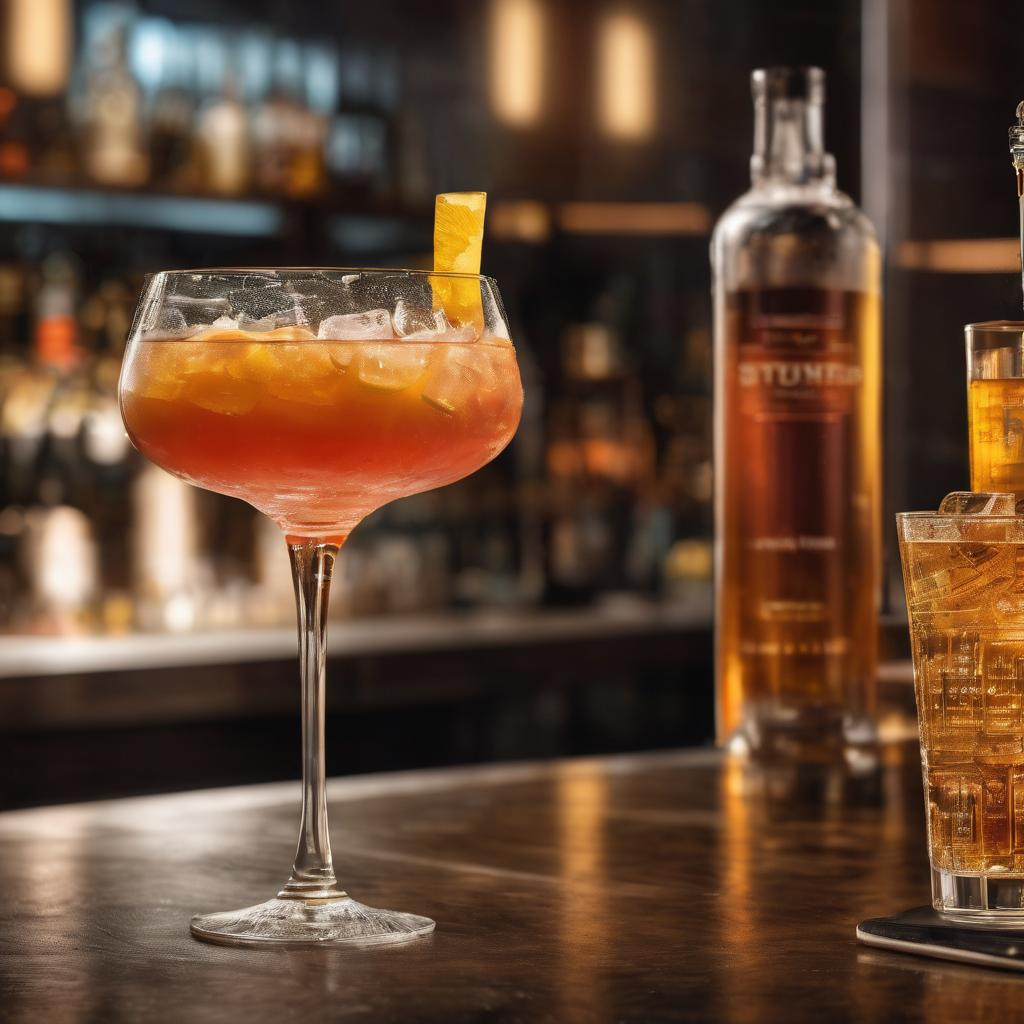
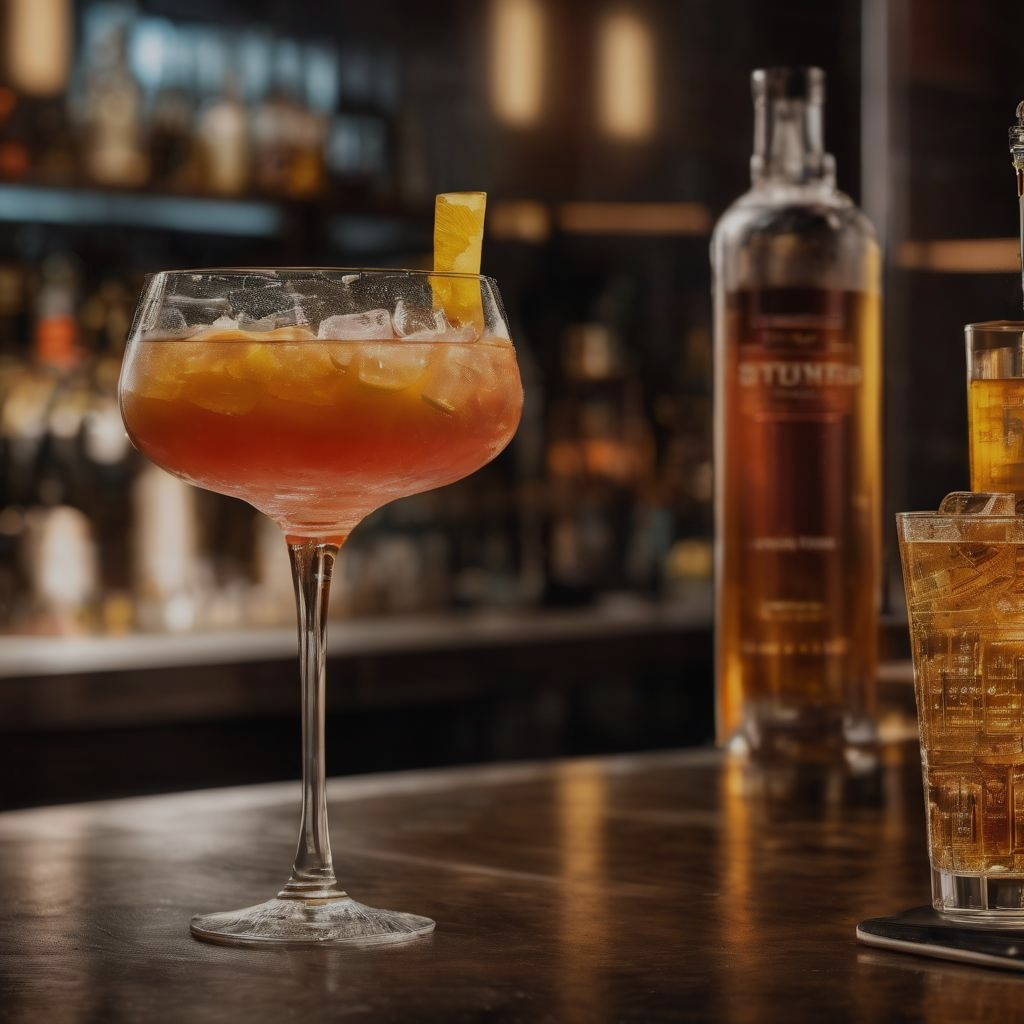
feat: darkened images, updated html text, fixed nav bar, added css

diff --git a/index.html b/index.html
@@ -21,7 +21,7 @@
 
     <nav class="navbar navbar-expand-lg bg-body-tertiary">
       <div class="container-fluid">
-        <a class="navbar-brand" href="#">FrontEnders</a>
+        <a class="navbar-brand" href="#">The Front End</a>
         <button class="navbar-toggler" type="button" data-bs-toggle="collapse" data-bs-target="#navbarNav" aria-controls="navbarNav" aria-expanded="false" aria-label="Toggle navigation">
           <span class="navbar-toggler-icon"></span>
         </button>
@@ -43,7 +43,7 @@
         </div>
       </div>
     </nav>
-    <section>
+    <section class="pb-5 pt-5">
       <div class="container-fluid">
         <div class="row">
           <div class="col-md-8">
@@ -65,8 +65,8 @@
                   <div class="carousel-item active">
                     <img src="assets\images\milkshake.jpg" class="d-block w-100" alt="2 Milkshakes in front of a PC thats has code on it">
                     <div class="carousel-caption d-none d-md-block">
-                      <h5>User Friendly</h5>
-                      <p>My Milkshakes bring all the coders to the bar!</p>
+                      <h5>User Friendlies</h5>
+                      <p>Our milkshakes bring all the coders to the bar.</p>
                     </div>
                   </div>
                   
@@ -96,8 +96,8 @@
             <div class="info-div">
               <!-- Information in the second div -->
               <h2>The Front End</h2>
-              <h4>Taste the Final Product</h4>
-              <p>Call in and taste our Final Product</p>
+              <h4>Program your own experience!</h4>
+              <p>All code and no play makes for a dull programmer.</p>
               <h4> Write your own Version @ Home</h4>
               <p>Cant make it here, Try out our monthly recipes</p>
               <p>Sign up for our Monthly Drink menu!</p>

diff --git a/assets/style.css b/assets/style.css
@@ -8,6 +8,12 @@ header {
   font-family: 'Tektur', sans-serif;
 }
 
+nav {
+  color: #fafafa;
+  text-align: center;
+  font-family: 'Tektur', sans-serif;
+}
+
 body {
   background-color: rgb(48, 37, 37);
 }
@@ -32,6 +38,23 @@ h2 {
   color: #fafafa;
   margin: 25%;
 }
+
+/* Footer */
+
 footer {
   text-align: center;
+}
+
+#social-networks {
+  text-align: center;
+  padding: 20px 0;
+  display: flex;
+  justify-content: space-evenly;
+  list-style-type: none;
+}
+
+#social-networks i {
+  font-size: 160%;
+  padding: 5%;
+  color: #3a3a3a;
 }
